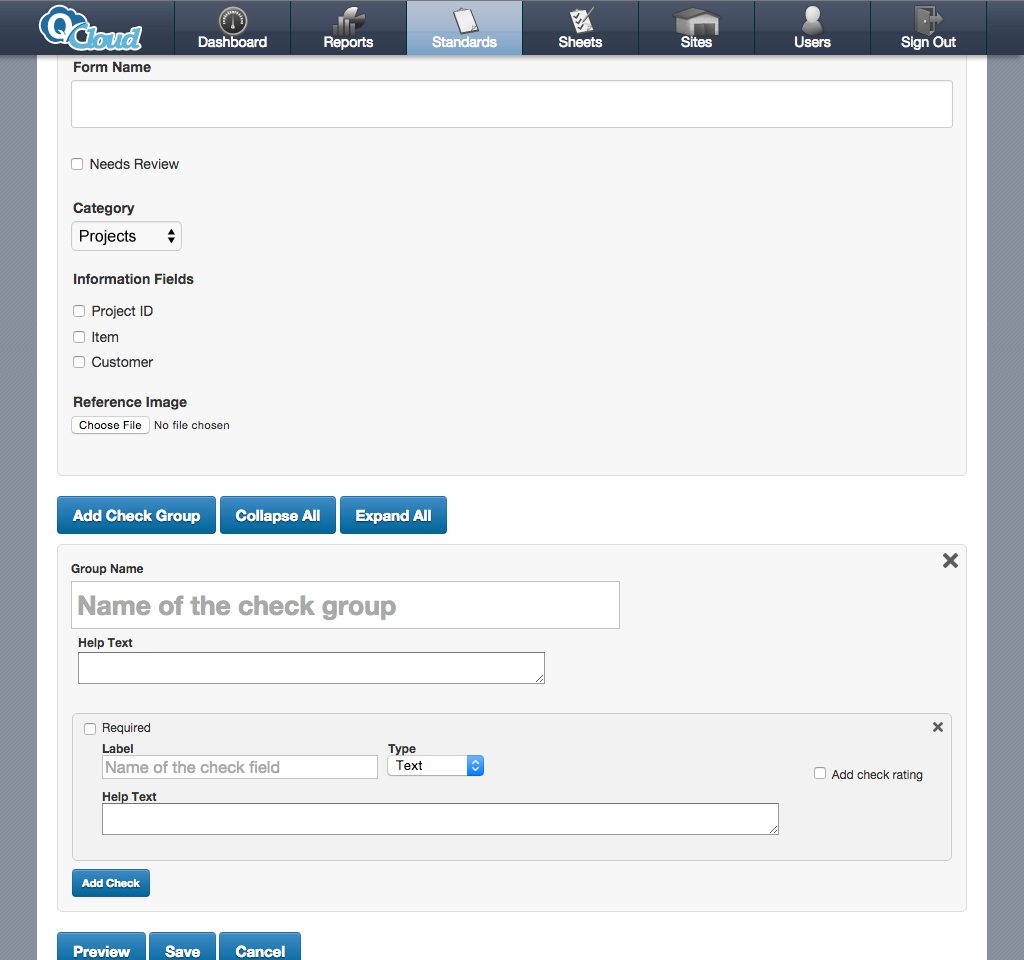
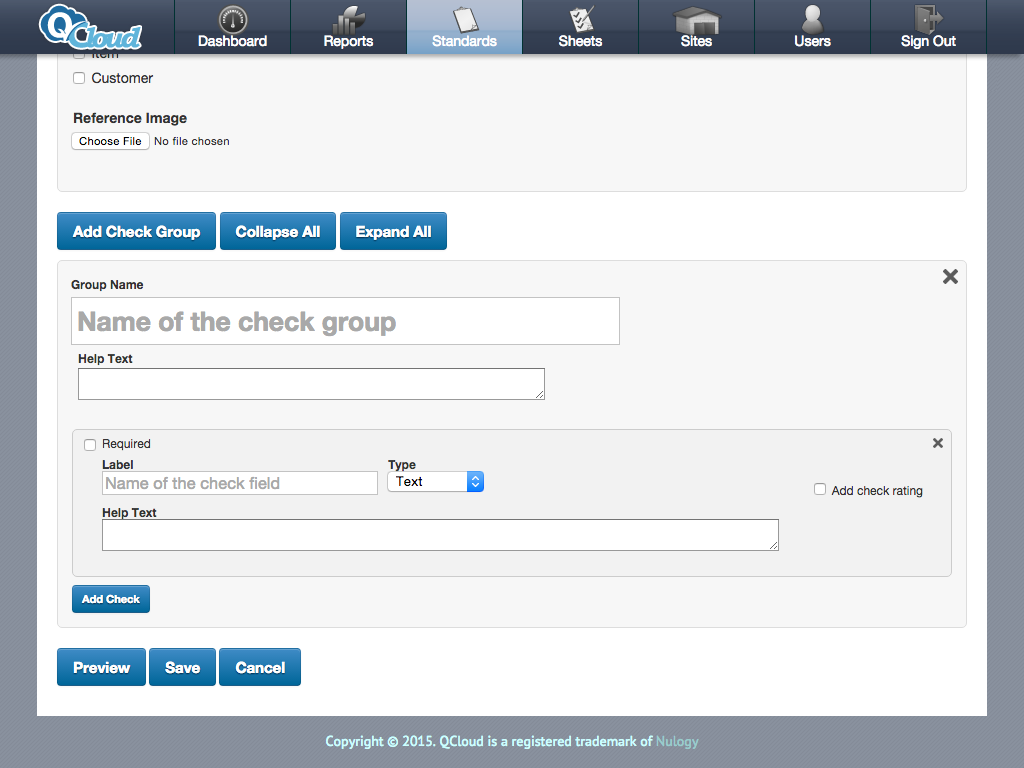
Update form creations screenshots.

diff --git a/client/components/route-handlers/WorkWork.jsx b/client/components/route-handlers/WorkWork.jsx
@@ -88,8 +88,8 @@ const qcloud = [
   {
     slug: "form-creation",
     title: "Form Creation",
-    beforeDimensions: [ 1024, 960 ],
-    afterDimensions: [ 1024, 960 ]
+    beforeDimensions: [ 1024, 768 ],
+    afterDimensions: [ 1024, 768 ]
   },
   {
     slug: "inspector-view",
